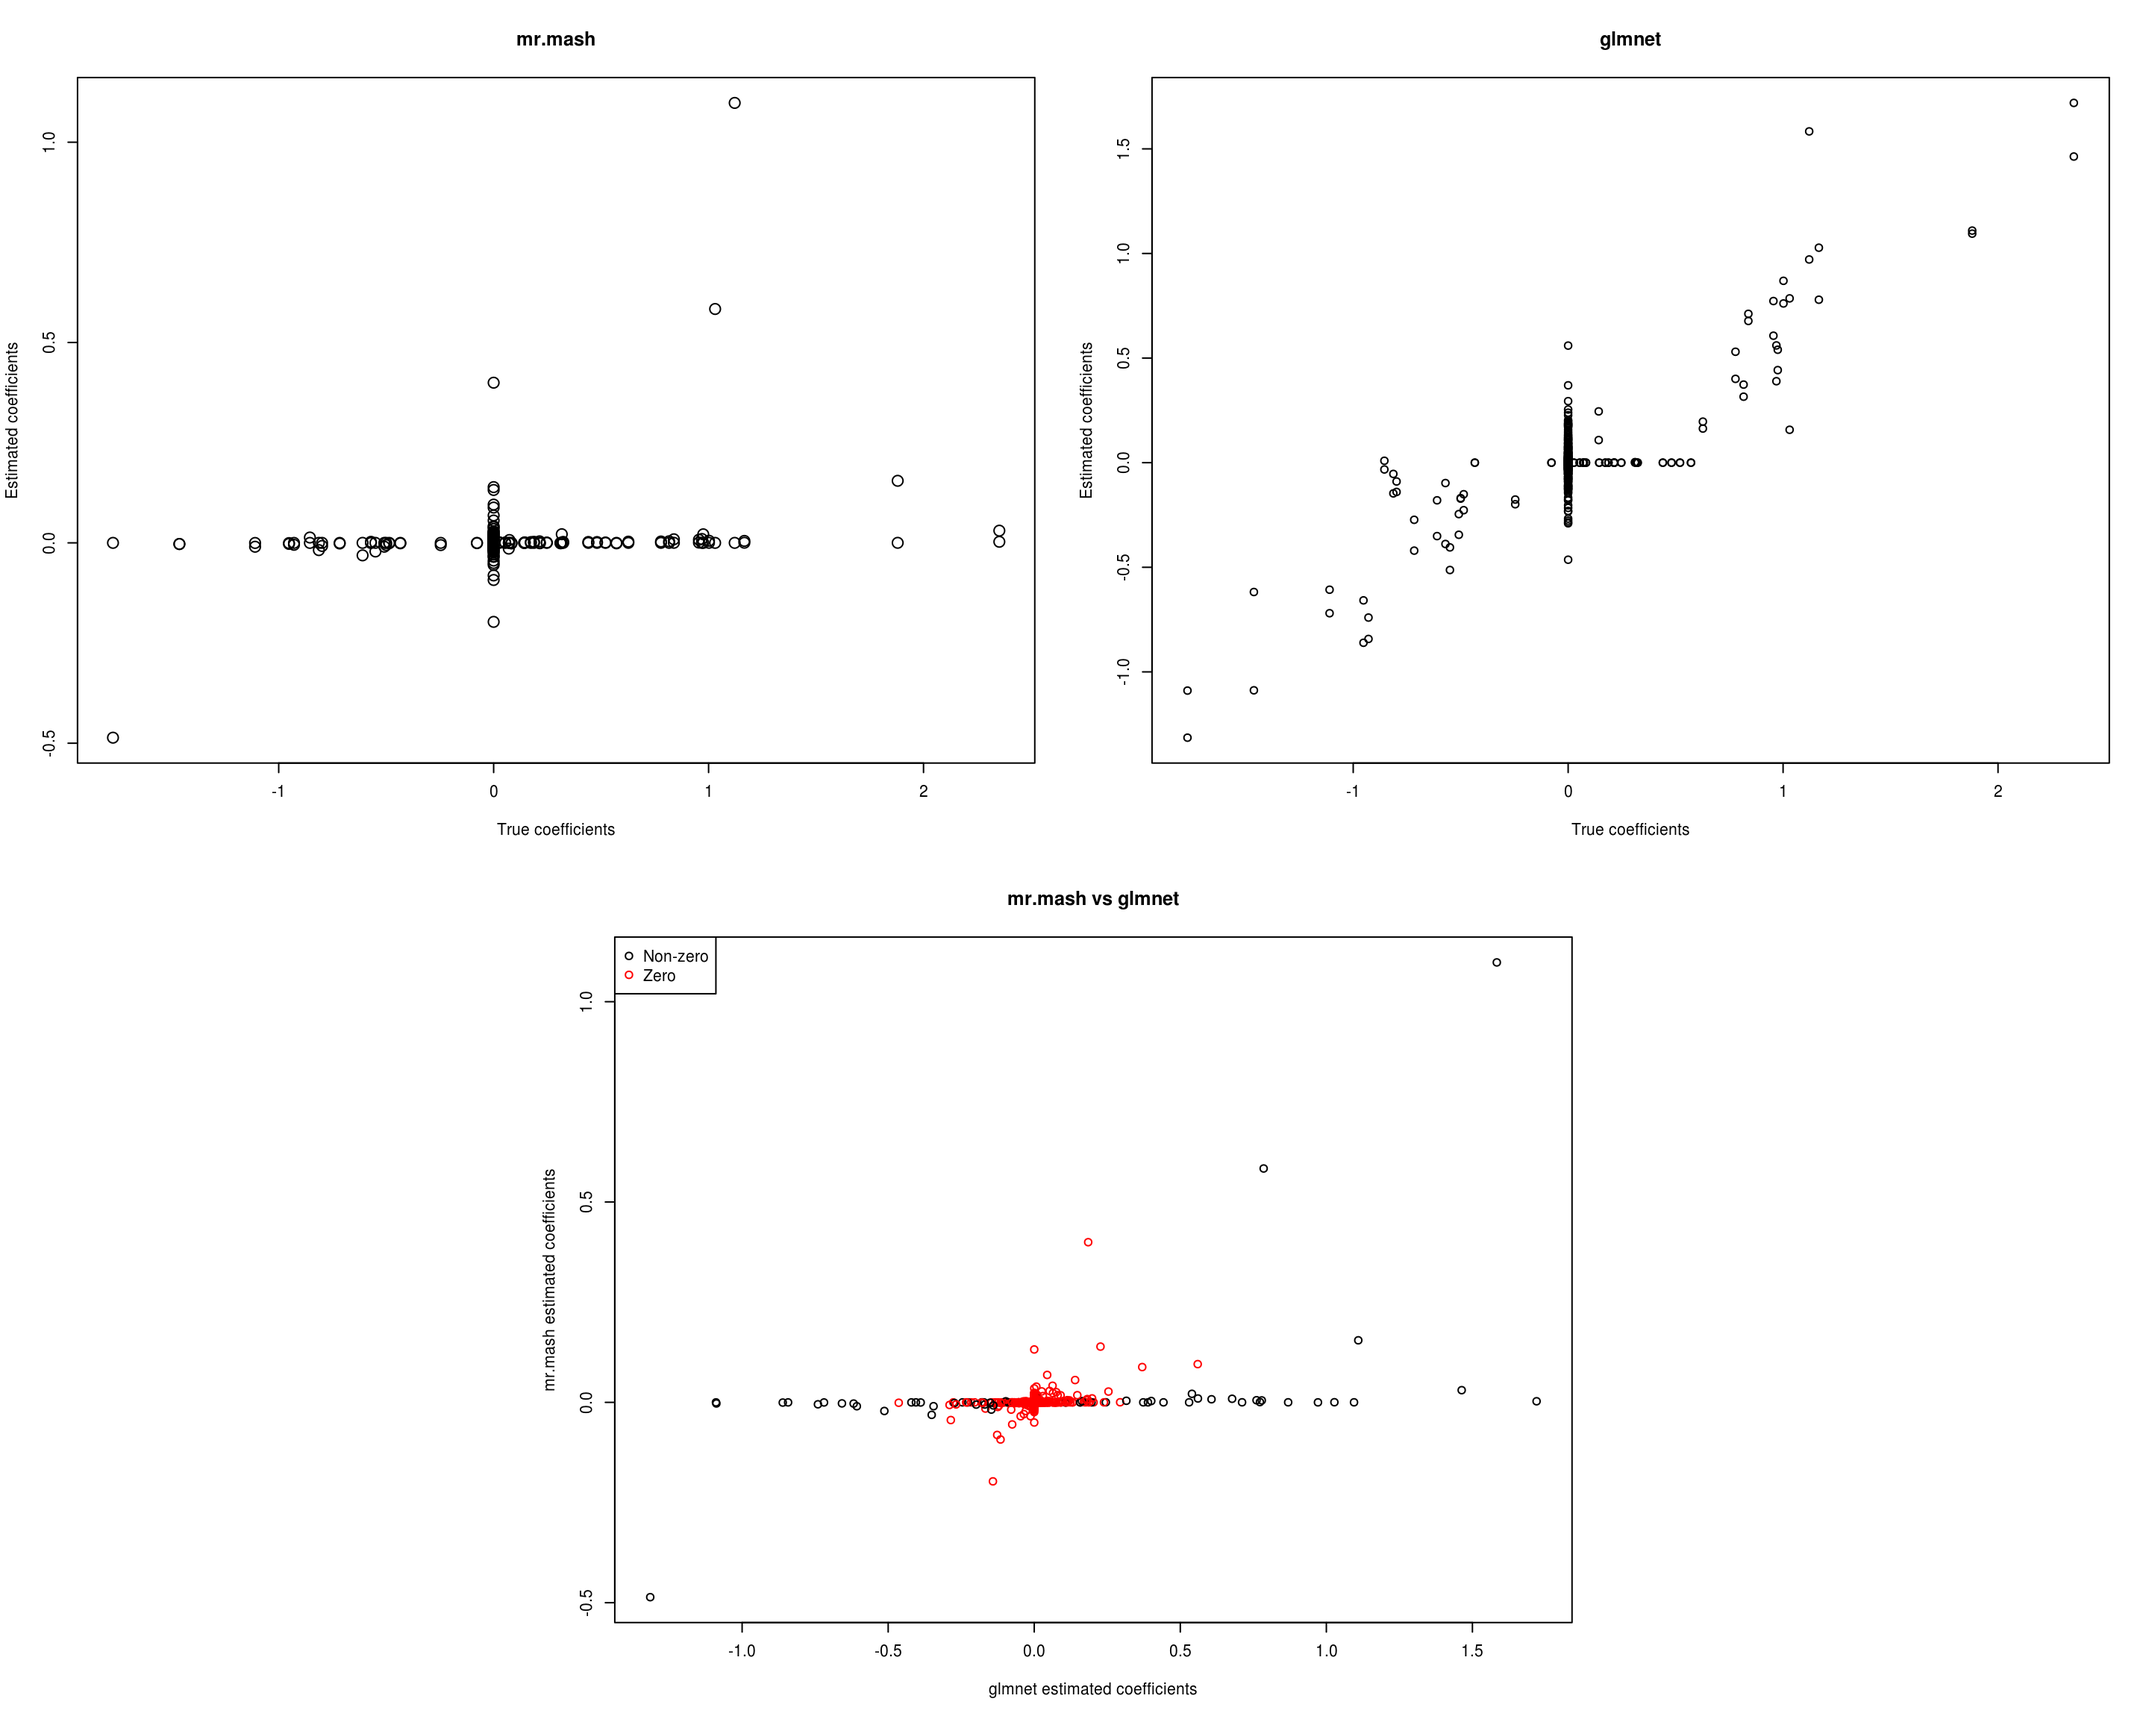
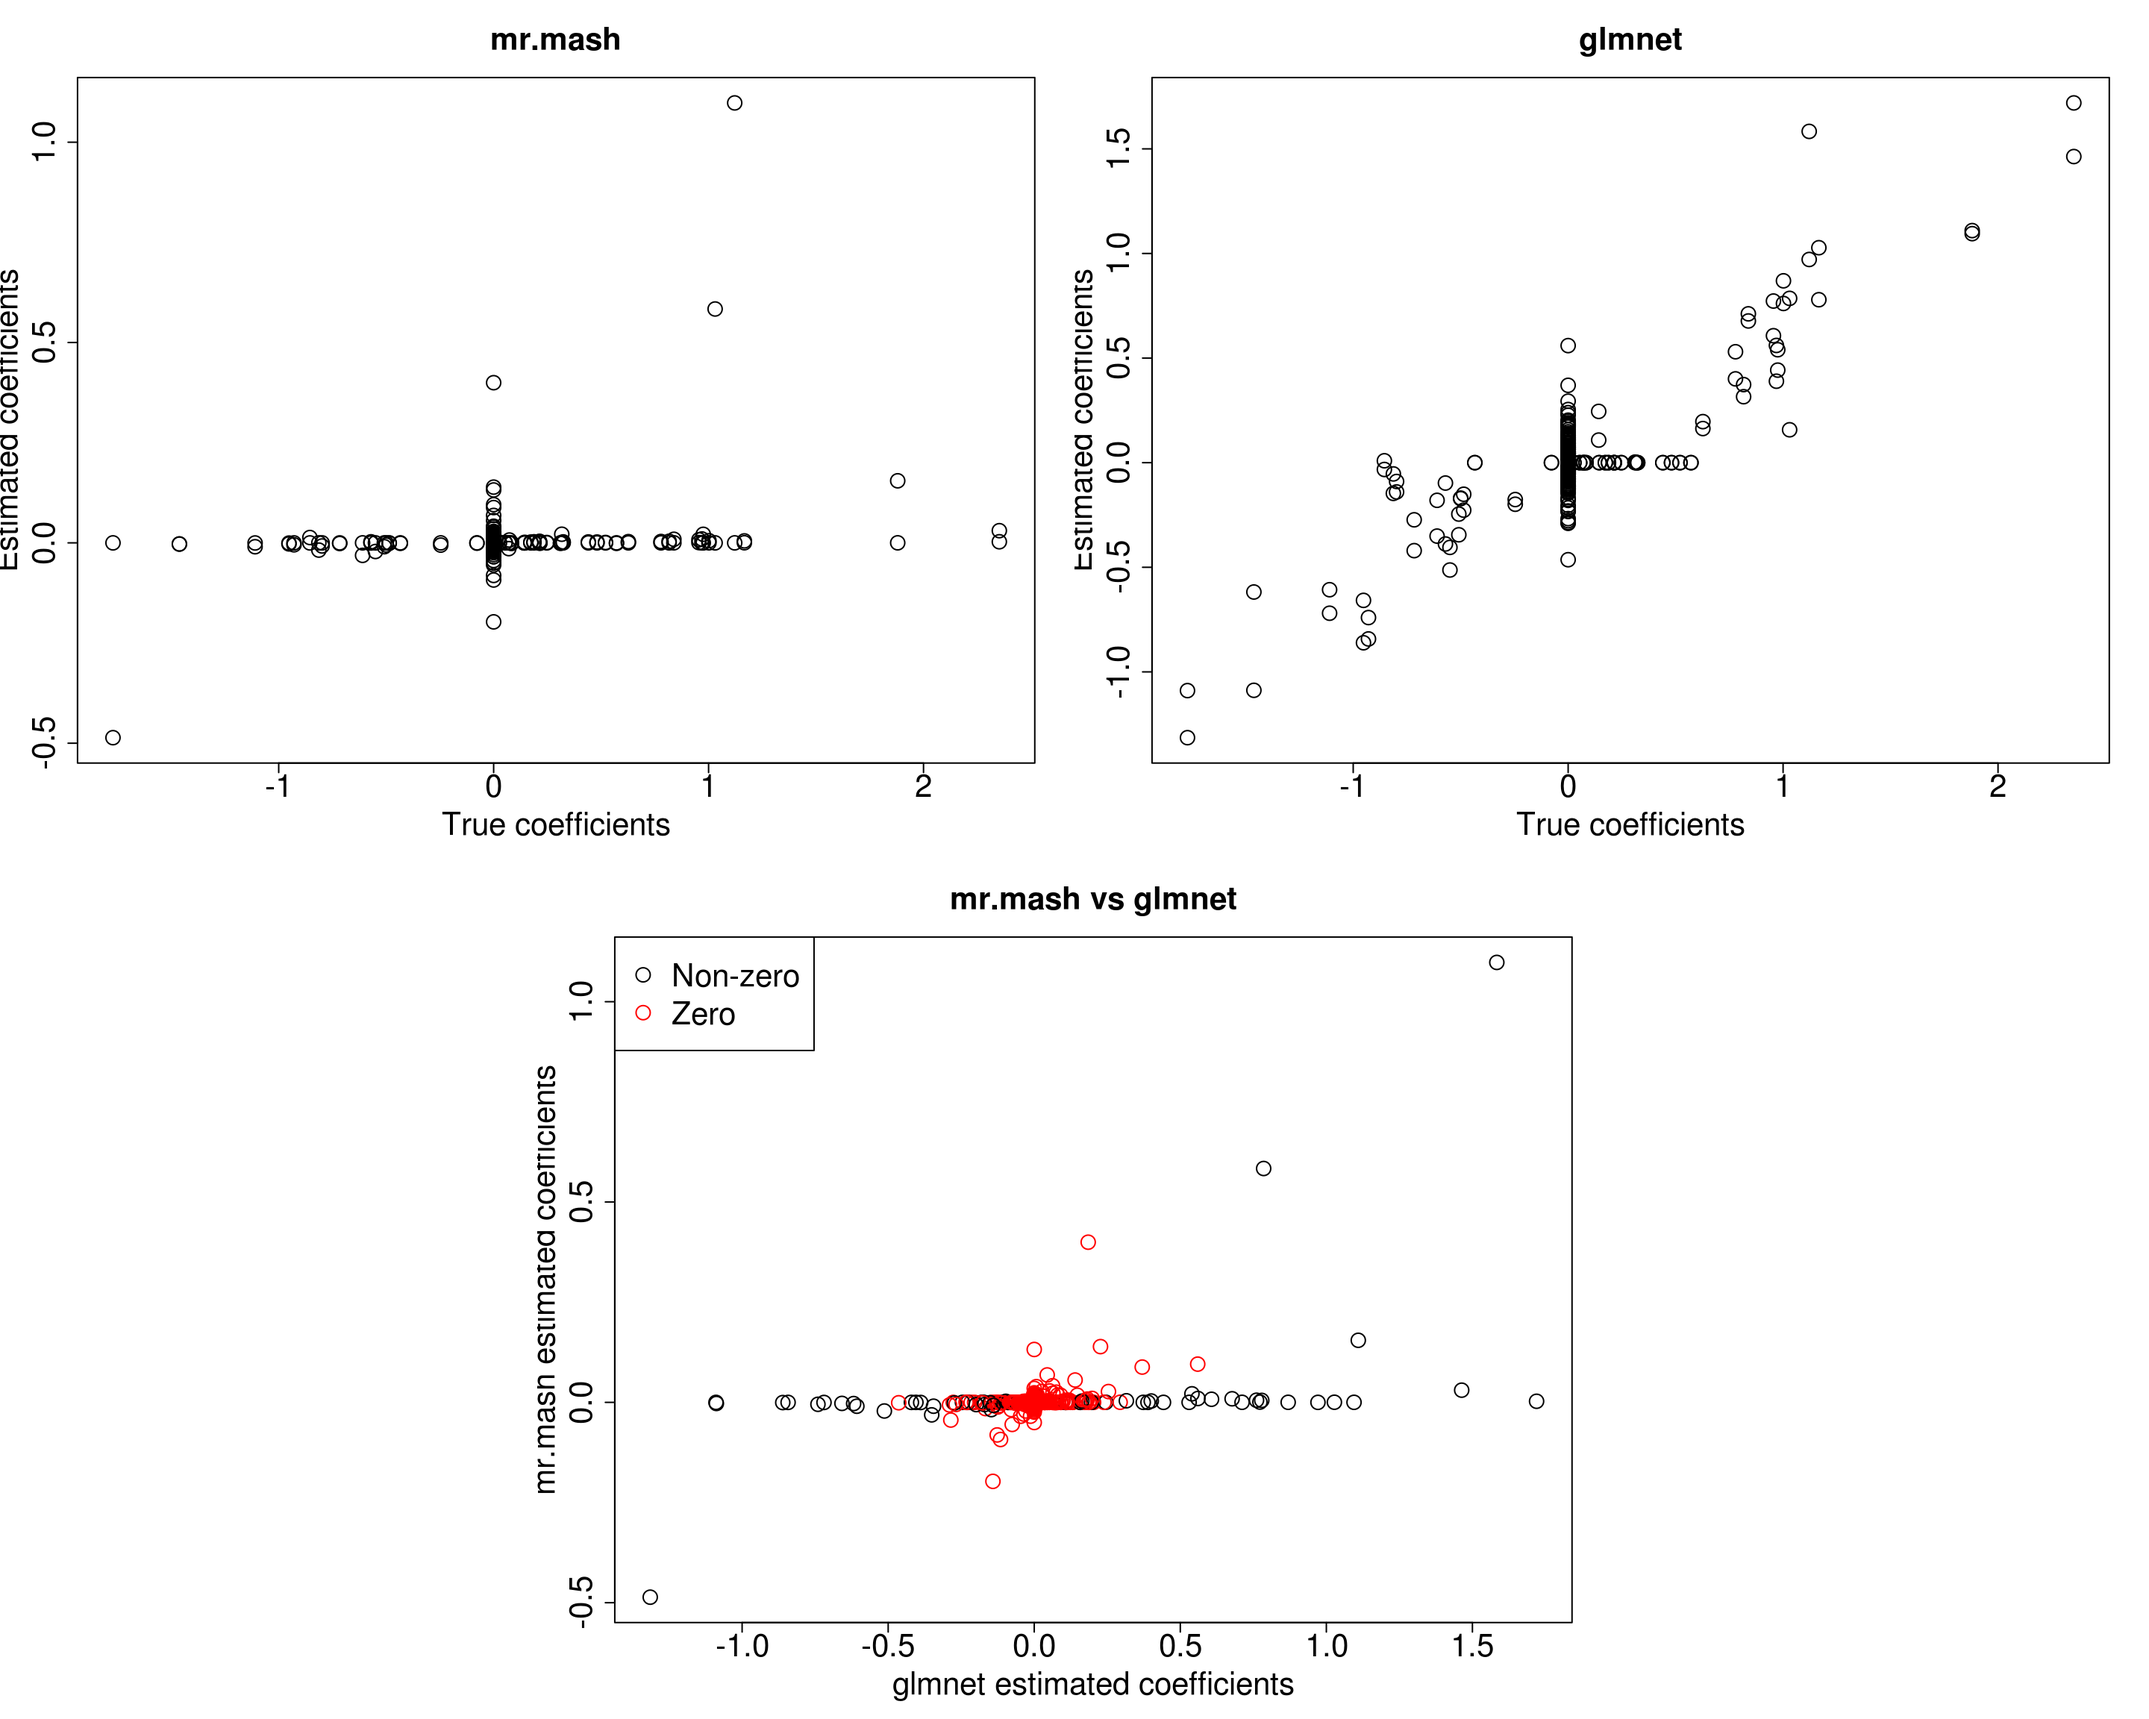
Build site.

diff --git a/docs/two_active_responses_issue.html b/docs/two_active_responses_issue.html
@@ -355,16 +355,16 @@ This reproducible <a href="http://rmarkdown.rstudio.com">R Markdown</a> analysis
 <div class="panel panel-default">
 <div class="panel-heading">
 <p class="panel-title">
-<a data-toggle="collapse" data-parent="#workflowr-checks" href="#strongRepositoryversionstrongahrefhttpsgithubcomfmorgantemrmashtesttreea626e53faebb3dab68b46c8c5fd36658dc56dafftargetblanka626e53a"> <span class="glyphicon glyphicon-ok text-success" aria-hidden="true"></span> <strong>Repository version:</strong> <a href="https://github.com/fmorgante/mr_mash_test/tree/a626e53faebb3dab68b46c8c5fd36658dc56daff" target="_blank">a626e53</a> </a>
+<a data-toggle="collapse" data-parent="#workflowr-checks" href="#strongRepositoryversionstrongahrefhttpsgithubcomfmorgantemrmashtesttree068beb288aaac3b0139018b701200cd4179ee75dtargetblank068beb2a"> <span class="glyphicon glyphicon-ok text-success" aria-hidden="true"></span> <strong>Repository version:</strong> <a href="https://github.com/fmorgante/mr_mash_test/tree/068beb288aaac3b0139018b701200cd4179ee75d" target="_blank">068beb2</a> </a>
 </p>
 </div>
[2 lines of base64/hex data omitted]
 <div class="panel-body">
 <p>
 Great! You are using Git for version control. Tracking code development and connecting the code version to the results is critical for reproducibility.
 </p>
 <p>
-The results in this page were generated with repository version <a href="https://github.com/fmorgante/mr_mash_test/tree/a626e53faebb3dab68b46c8c5fd36658dc56daff" target="_blank">a626e53</a>. See the <em>Past versions</em> tab to see a history of the changes made to the R Markdown and HTML files.
+The results in this page were generated with repository version <a href="https://github.com/fmorgante/mr_mash_test/tree/068beb288aaac3b0139018b701200cd4179ee75d" target="_blank">068beb2</a>. See the <em>Past versions</em> tab to see a history of the changes made to the R Markdown and HTML files.
 </p>
 <p>
 Note that you need to be careful to ensure that all relevant files for the analysis have been committed to Git prior to generating the results (you can use <code>wflow_publish</code> or <code>wflow_git_commit</code>). workflowr only checks the R Markdown file, but you know if there are other scripts or data files that it depends on. Below is the status of the Git repository when the results were generated:
@@ -431,6 +431,40 @@ Message
 </tr>
 </thead>
 <tbody>
+<tr>
+<td>
+Rmd
+</td>
+<td>
+<a href="https://github.com/fmorgante/mr_mash_test/blob/068beb288aaac3b0139018b701200cd4179ee75d/analysis/two_active_responses_issue.Rmd" target="_blank">068beb2</a>
+</td>
+<td>
+fmorgante
+</td>
+<td>
+2020-05-27
+</td>
+<td>
+Increase cex
+</td>
+</tr>
+<tr>
+<td>
+html
+</td>
+<td>
+<a href="https://rawcdn.githack.com/fmorgante/mr_mash_test/f2b6bf8ba2b2c4b0d1cd1392d78771bcd1ee1d50/docs/two_active_responses_issue.html" target="_blank">f2b6bf8</a>
+</td>
+<td>
+fmorgante
+</td>
+<td>
+2020-05-27
+</td>
+<td>
+Build site.
+</td>
+</tr>
 <tr>
 <td>
 Rmd
@@ -550,7 +584,7 @@ fit_mrmash &lt;- mr.mash(Xtrain, Ytrain, S0, update_w0=TRUE, update_w0_method=&q
 <pre><code>Processing the inputs... Done!
 Fitting the optimization algorithm... Done!
 Processing the outputs... Done!
-mr.mash successfully executed in 8.758583 minutes!</code></pre>
+mr.mash successfully executed in 8.890438 minutes!</code></pre>
 <p>Let’s now compare the results.</p>
 <pre class="r"><code>layout(matrix(c(1, 1, 2, 2,
                 1, 1, 2, 2,
@@ -560,9 +594,10 @@ mr.mash successfully executed in 8.758583 minutes!</code></pre>
 ###Plot estimated vs true coeffcients
 ##mr.mash
 plot(out$B, fit_mrmash$mu1, main=&quot;mr.mash&quot;, xlab=&quot;True coefficients&quot;, ylab=&quot;Estimated coefficients&quot;,
-     cex=1.5)
+     cex=2, cex.lab=2, cex.main=2, cex.axis=2)
 ##glmnet
-plot(out$B, Bhat_glmnet, main=&quot;glmnet&quot;, xlab=&quot;True coefficients&quot;, ylab=&quot;Estimated coefficients&quot;)
+plot(out$B, Bhat_glmnet, main=&quot;glmnet&quot;, xlab=&quot;True coefficients&quot;, ylab=&quot;Estimated coefficients&quot;,
+     cex=2, cex.lab=2, cex.main=2, cex.axis=2)
 
 ###Plot mr.mash vs glmnet estimated coeffcients
 colorz &lt;- matrix(&quot;black&quot;, nrow=p, ncol=r)
@@ -573,13 +608,13 @@ for(i in 1:ncol(colorz)){
 
 plot(Bhat_glmnet, fit_mrmash$mu1, main=&quot;mr.mash vs glmnet&quot;, 
      xlab=&quot;glmnet estimated coefficients&quot;, ylab=&quot;mr.mash estimated coefficients&quot;,
-     col=colorz)
+     col=colorz, cex=2, cex.lab=2, cex.main=2, cex.axis=2)
 legend(&quot;topleft&quot;, 
        legend = c(&quot;Non-zero&quot;, &quot;Zero&quot;), 
        col = c(&quot;black&quot;, &quot;red&quot;), 
        pch = c(1, 1), 
        horiz = FALSE,
-       cex=1) </code></pre>
+       cex=2) </code></pre>
 <p><img src="figure/two_active_responses_issue.Rmd/plot%20results-1.png" width="1440" style="display: block; margin: auto;" /></p>
 <p>
 <button type="button" class="btn btn-default btn-xs btn-workflowr btn-workflowr-fig" data-toggle="collapse" data-target="#fig-no-spaces-plot-results-1">
@@ -603,6 +638,17 @@ Date
 </tr>
 </thead>
 <tbody>
+<tr>
+<td>
+<a href="https://github.com/fmorgante/mr_mash_test/blob/f2b6bf8ba2b2c4b0d1cd1392d78771bcd1ee1d50/docs/figure/two_active_responses_issue.Rmd/plot results-1.png" target="_blank">f2b6bf8</a>
+</td>
+<td>
+fmorgante
+</td>
+<td>
+2020-05-27
+</td>
+</tr>
 <tr>
 <td>
 <a href="https://github.com/fmorgante/mr_mash_test/blob/7dad46c90c5d4cd0cfb96fffe5058bb725c006f8/docs/figure/two_active_responses_issue.Rmd/plot results-1.png" target="_blank">7dad46c</a>
@@ -642,7 +688,7 @@ fit_mrmash_updated &lt;- mr.mash(Xtrain, Ytrain, S0_1, update_w0=TRUE, update_w0
 <pre><code>Processing the inputs... Done!
 Fitting the optimization algorithm... Done!
 Processing the outputs... Done!
-mr.mash successfully executed in 5.450435 minutes!</code></pre>
+mr.mash successfully executed in 5.530349 minutes!</code></pre>
 <p>Let’s compare the results again.</p>
 <pre class="r"><code>layout(matrix(c(1, 1, 2, 2,
                 1, 1, 2, 2,
@@ -651,9 +697,10 @@ mr.mash successfully executed in 5.450435 minutes!</code></pre>
 
 ###Plot estimated vs true coeffcients
 ##mr.mash
-plot(out$B, fit_mrmash_updated$mu1, main=&quot;mr.mash&quot;, xlab=&quot;True coefficients&quot;, ylab=&quot;Estimated coefficients&quot;)
+plot(out$B, fit_mrmash_updated$mu1, main=&quot;mr.mash&quot;, xlab=&quot;True coefficients&quot;, ylab=&quot;Estimated coefficients&quot;, cex=2, cex.lab=2, cex.main=2, cex.axis=2)
 ##glmnet
-plot(out$B, Bhat_glmnet, main=&quot;glmnet&quot;, xlab=&quot;True coefficients&quot;, ylab=&quot;Estimated coefficients&quot;)
+plot(out$B, Bhat_glmnet, main=&quot;glmnet&quot;, xlab=&quot;True coefficients&quot;, ylab=&quot;Estimated coefficients&quot;,
+     cex=2, cex.lab=2, cex.main=2, cex.axis=2)
 
 ###Plot mr.mash vs glmnet estimated coeffcients
 colorz &lt;- matrix(&quot;black&quot;, nrow=p, ncol=r)
@@ -664,13 +711,13 @@ for(i in 1:ncol(colorz)){
 
 plot(Bhat_glmnet, fit_mrmash_updated$mu1, main=&quot;mr.mash vs glmnet&quot;, 
      xlab=&quot;glmnet estimated coefficients&quot;, ylab=&quot;mr.mash estimated coefficients&quot;,
-     col=colorz)
+     col=colorz, cex=2, cex.lab=2, cex.main=2, cex.axis=2)
 legend(&quot;topleft&quot;, 
        legend = c(&quot;Non-zero&quot;, &quot;Zero&quot;), 
        col = c(&quot;black&quot;, &quot;red&quot;), 
        pch = c(1, 1), 
        horiz = FALSE,
-       cex=1) </code></pre>
+       cex=2) </code></pre>
 <p><img src="figure/two_active_responses_issue.Rmd/plot%20updated%20results-1.png" width="1440" style="display: block; margin: auto;" /></p>
 <p>
 <button type="button" class="btn btn-default btn-xs btn-workflowr btn-workflowr-fig" data-toggle="collapse" data-target="#fig-no-spaces-plot-updated-results-1">
